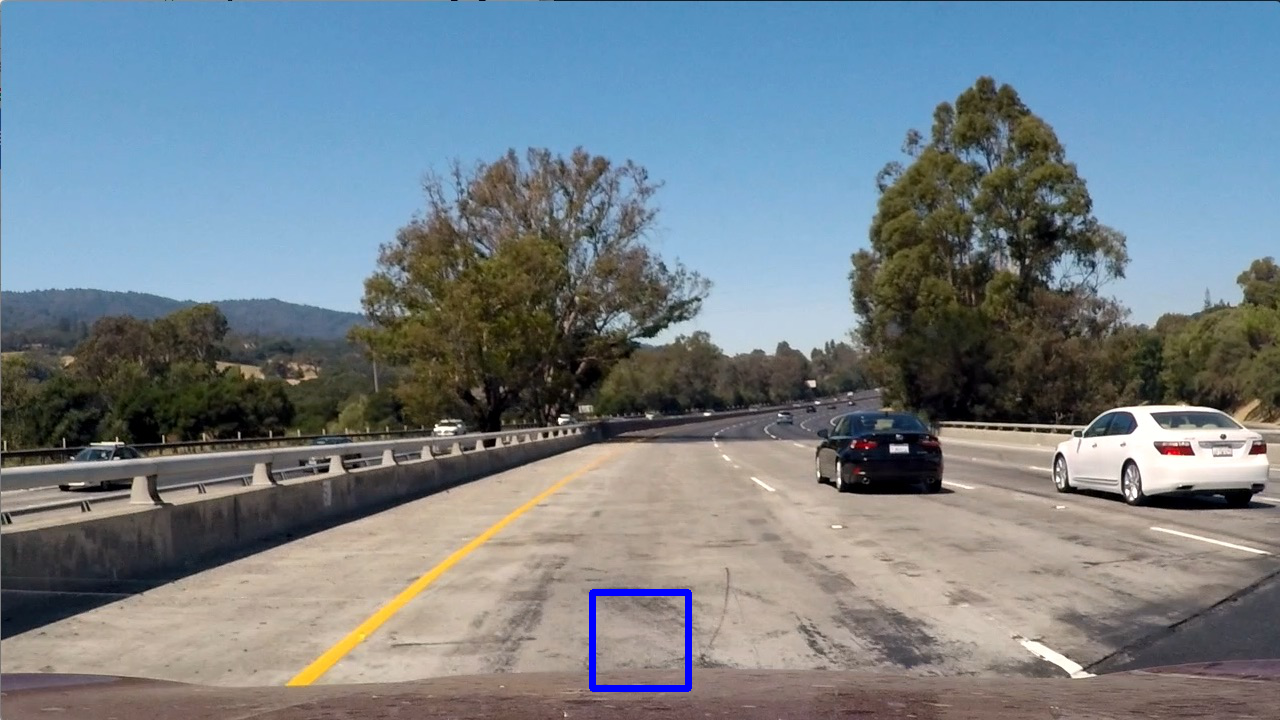
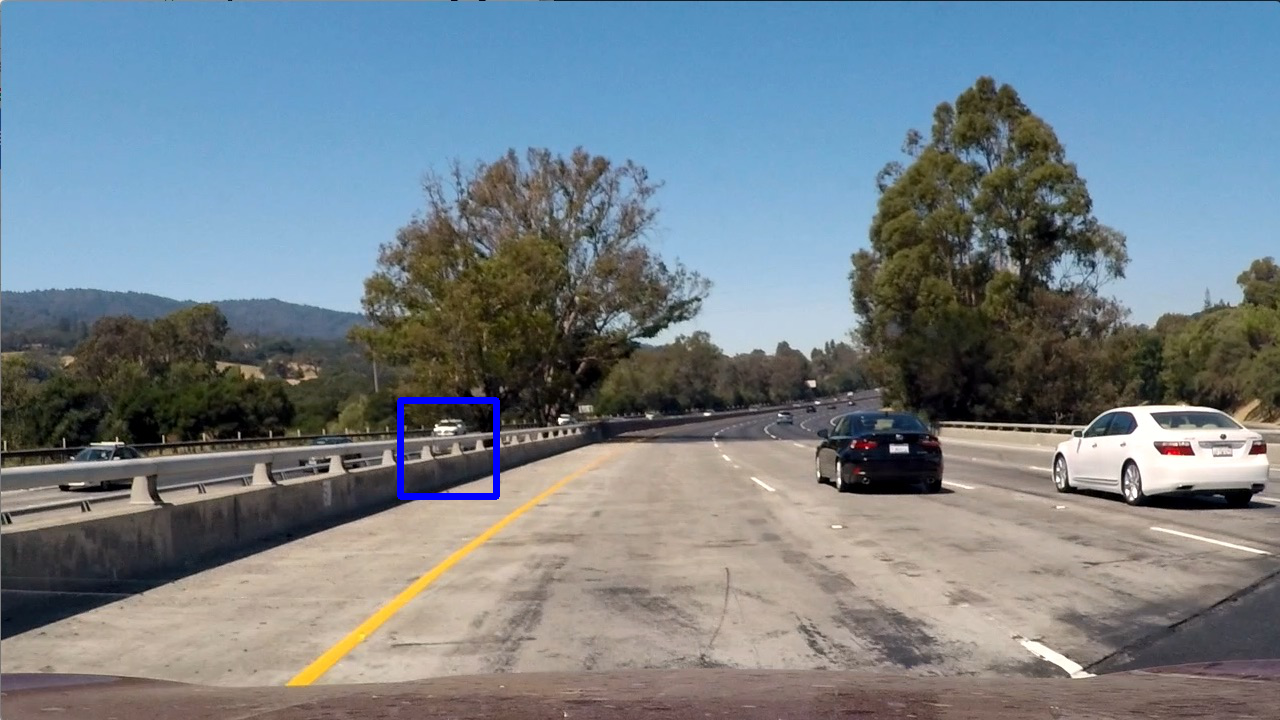
switched to YCrCb

Changed region(s): [[0.4375, 0.825, 0.5625, 0.9778], [0.3125, 0.55, 0.4062, 0.7028], [0.4688, 0.7944, 0.5312, 0.825]]

diff --git a/Term1/Project5_Vehicle_Detection_and_Tracking_Project/vedet_main.py b/Term1/Project5_Vehicle_Detection_and_Tracking_Project/vedet_main.py
@@ -102,8 +102,9 @@ def process_image_vedet(image):
 
 modelfilename = "model.svc"
 ### TODO: Tweak these parameters and see how the results change.
-color_space = 'HSV'  # Can be RGB, HSV, LUV, HLS, YUV, YCrCb
-orient = 18  # HOG orientations
+#color_space = 'HSV'  # Can be RGB, HSV, LUV, HLS, YUV, YCrCb
+color_space = 'YCrCb'  # Can be RGB, HSV, LUV, HLS, YUV, YCrCb
+orient = 10  # HOG orientations
 pix_per_cell = 8  # HOG pixels per cell
 cell_per_block = 2  # HOG cells per block
 hog_channel = 0  # Can be 0, 1, 2, or "ALL"
